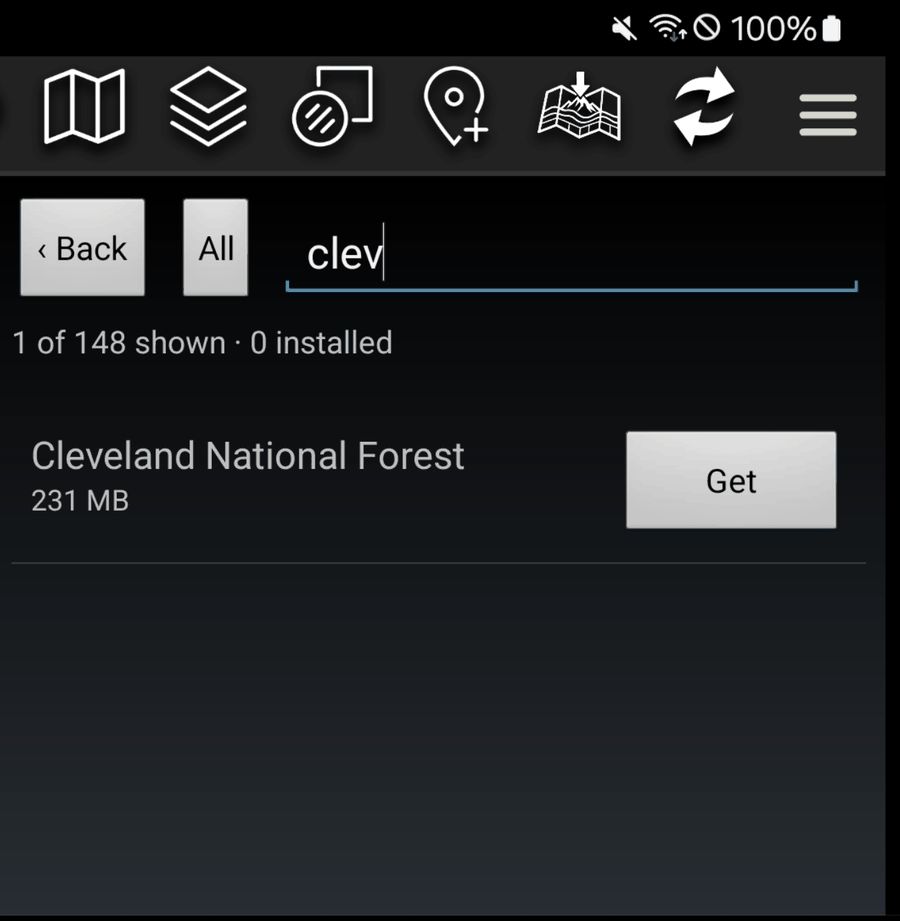
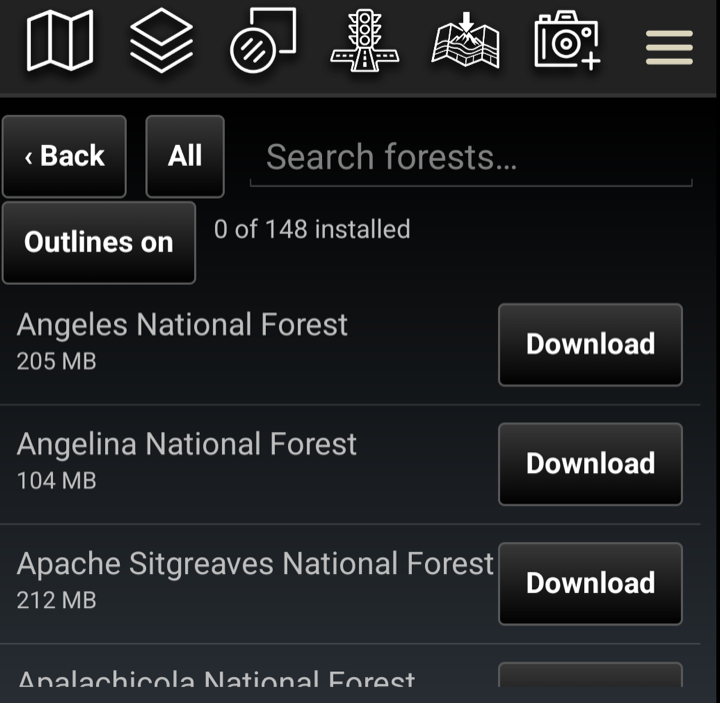
Map Depot 1.1: the GitHub guide covers incident maps
The public guide still described a four-page plugin at 0.6. It now
matches what 1.1 does.

New section 7 on the two incident archives: picking a geographic area,
dates newest first, what the renaming does and why the date in a name is
the operational period, MAP against OVERLAY, what is left out and the
line that says how many, pinning, and outlines.

The rest follows from that. Six kinds of data on the landing page rather
than four; Get is Download; the filter section gains Available, the
hidden-by-filter message and Show/Hide; the folder table gains grg and
overlays for incident products; Remove on a pin unpins and deletes
nothing.

Sixteen screenshots retaken from the 1.1 frames, ten added for the new
material. The README moves to 1.1 with its download block, the two new
hosts under PORTS REQUIRED, and pinning in the capability list. Its
skeleton still diffs clean against the PLSS reference.

diff --git a/docs/USER_GUIDE.md b/docs/USER_GUIDE.md
@@ -1,12 +1,12 @@
 # Map Depot for ATAK — User Guide
 
-**Version 0.6 · takwerx**
+**Version 1.1 · takwerx**
 
-**Download Map Depot 0.6** (pick the one matching your ATAK-CIV version, sideload, then load it in ATAK's Plugins manager):
+**Download Map Depot 1.1** (pick the one matching your ATAK-CIV version, sideload, then load it in ATAK's Plugins manager):
 
-- **ATAK-CIV 5.6:** https://github.com/takwerx/map-depot/releases/download/v0.6/ATAK-Plugin-MapDepot-0.6--5.6.0-civ-release.apk
-- **ATAK-CIV 5.7:** https://github.com/takwerx/map-depot/releases/download/v0.6/ATAK-Plugin-MapDepot-0.6--5.7.0-civ-release.apk
-- **ATAK-CIV 5.8:** https://github.com/takwerx/map-depot/releases/download/v0.6/ATAK-Plugin-MapDepot-0.6--5.8.0-civ-release.apk
+- **ATAK-CIV 5.6:** https://github.com/takwerx/map-depot/releases/download/v1.1/ATAK-Plugin-MapDepot-1.1--5.6.0-civ-release.apk
+- **ATAK-CIV 5.7:** https://github.com/takwerx/map-depot/releases/download/v1.1/ATAK-Plugin-MapDepot-1.1--5.7.0-civ-release.apk
+- **ATAK-CIV 5.8:** https://github.com/takwerx/map-depot/releases/download/v1.1/ATAK-Plugin-MapDepot-1.1--5.8.0-civ-release.apk
 
 All releases: https://github.com/takwerx/map-depot/releases
 
@@ -42,7 +42,7 @@ Load the plugin from ATAK's Plugins manager, then open it from the toolbar.
 
 ![Map Depot in the ATAK toolbar](screenshots/1_plugin_in_toolbar.png)
 
-The landing page offers four kinds of data, each on its own page.
+The landing page offers six kinds of data, each on its own page.
 
 ![The Map Depot landing page](screenshots/2_landing_page.png)
 
@@ -53,18 +53,22 @@ The landing page offers four kinds of data, each on its own page.
 - **Offline Public Lands** — Forest Service vector basemaps, one per national
   forest or grassland, held on the device.
 - **Offline Ranger District Maps** — the printed district maps, as GeoPDFs.
+- **Incident Maps (NIFC)** — the operational maps posted for a going fire: ops,
+  division, air operations, transport, briefing and IR.
+- **Drone IR Maps (UASWFC)** — infrared flown by uncrewed aircraft, as
+  georeferenced PDFs and KMZs.
 
 ---
 
 ## 2. How every page works
 
-A list of what is available, a **Get** button on each row, and a line at the top
-saying what is happening. Rows report one of three states, so the list doubles as
-an inventory of what the device already holds.
+A list of what is available, a **Download** button on each row, and a line at the
+top saying what is happening. Rows report one of three states, so the list
+doubles as an inventory of what the device already holds.
 
-![Rows showing Remove, Get and Finish](screenshots/3_elevation_row_states.png)
+![Rows showing Remove, Download and Finish](screenshots/3_elevation_row_states.png)
 
-- **Get** — none of it is on the device.
+- **Download** — none of it is on the device.
 - **Finish** — some of it is. Only the missing part downloads.
 - **Remove** — all of it is here.
 
@@ -169,11 +173,100 @@ it belongs to.
 Installed, a district map lands as a georeferenced overlay, in the right place on
 the ground, over whatever base map is showing.
 
-![A district map drawn over imagery](screenshots/16_district_map_on_map.png)
+![A district map drawn over imagery](screenshots/16_district_map_on_map.jpg)
 
 ---
 
-## 7. Finding what you already have
+## 7. Incident maps
+
+Two archives the incident community publishes to. Where every other page is a
+catalog that changes with a release, these change hourly: what is on the page is
+what the fire's GIS shop uploaded this morning.
+
+- **Incident Maps (NIFC)** — `ftp.wildfire.gov`. Ops, division, air operations,
+  transport, briefing and IR products, for fires across the country.
+- **Drone IR Maps (UASWFC)** — `uaswfc.org`. Infrared flown by uncrewed
+  aircraft.
+
+Both are public and need no account.
+
+### Picking your area
+
+Pick your geographic area once and it is remembered. It is a button, not a buried
+setting, so you can change it when the next fire is somewhere else.
+
+![Picking a geographic area](screenshots/20_incident_region_picker.png)
+
+From there you walk down to your fire and into whatever folder that shop uses.
+They do not all agree — one fire has `DAILY MAP PRODUCT`, `GIS` and `IR`, another
+has `Current`, `Products` and `QR` — so the plugin shows what is actually there
+rather than a fixed set of screens.
+
+Folders named by date are listed **newest first**, because the map you want is
+almost always today's.
+
+![Date folders, newest first](screenshots/21_incident_dates_newest_first.png)
+
+### Names you can read
+
+The archives name files for a GIS shop's file browser. Map Depot renames them for
+a phone:
+
+```
+ops_arch_e_port_20260828_0115_RoweCreekComplex_ORPRD000491_0828day.pdf
+  →  OR-PRD-ROWE-CREEK-COMPLEX-MAP-OPS-082826.pdf
+```
+
+![A file list](screenshots/22_incident_file_list.png)
+
+The date is the **operational period** — the shift the map is for, not the moment
+it came off the plotter. Division letters, sortie numbers and IR areas are all
+kept, because two maps you can both pick have to be able to sit on the device
+together. The original name is shown underneath, so a map named over the radio
+can still be found.
+
+A PDF says **MAP** and installs as a georeferenced overlay. A KMZ says
+**OVERLAY** and installs as ATAK's own kind of overlay. The name tells you which
+you are about to get.
+
+![A KMZ and a PDF in the same folder](screenshots/25_overlay_and_map.png)
+
+Only maps are offered: PDFs and KMZs. Geodatabases, shapefile bundles and flight
+logs are left out — a flight log is a PDF, but it is a sortie's paperwork rather
+than a map, and one filed as a GRG would drape a flat page over your map. The
+line under the buttons says how many were hidden, so a short list is never
+mistaken for an empty folder.
+
+### Pinning the fire you are working
+
+A crew assigned to a fire opens the same folder twenty times a day, and reaching
+it means a region, a year folder, the fire and then a product folder.
+
+Every folder has a **Pin** button.
+
+![Pinning a fire](screenshots/23_pin_a_fire.png)
+
+It then sits at the top of the first screen, in cyan, one tap away. **Remove** on
+a pinned row unpins it and deletes nothing.
+
+![A pinned fire at the top](screenshots/24_pinned_at_top.png)
+
+Anything can be pinned, not only a fire: if you live in one product folder, pin
+that and you land straight in it. Pins survive a restart and a plugin update, and
+the two archives keep their own.
+
+### On the map
+
+![A drone IR product on the ground](screenshots/27_drone_ir_on_map.jpg)
+
+**Outlines** turns the footprints of every GRG on or off, which is how you see
+what covers the ground in front of you before deciding what to turn on.
+
+![Outlines on](screenshots/26_outlines_on.jpg)
+
+---
+
+## 8. Finding what you already have
 
 Every page has a filter button, next to **Back**, that cycles **All** →
 **Installed** → **Available**. Set to **Installed**, the page becomes a list of
@@ -190,9 +283,27 @@ Straight after a download it may say it is still being added to the map list —
 ATAK is indexing the file, which takes a while for a large one. It goes there on
 its own when that finishes. Nothing needs tapping again.
 
+Set to **Available**, the page hides everything you already hold, which is the
+view you want when you are adding to a device rather than checking it.
+
+![The list filtered to available](screenshots/29_filter_available.png)
+
+When a filter is hiding everything, the page says so rather than reading as an
+empty folder — "3 maps here, hidden by the Installed filter" is a different
+problem from a folder with nothing in it.
+
+![A folder whose contents are hidden by the filter](screenshots/28_hidden_by_filter.png)
+
+### Show and Hide
+
+An installed overlay or GRG carries a **Show** or **Hide** button beside
+**Remove**. It does what the Overlay Manager's checkbox does, without leaving the
+plugin — useful when you hold a dozen maps of the same fire and want one of them
+on at a time.
+
 ---
 
-## 8. Removing
+## 9. Removing
 
 **Remove** appears on anything installed, and says what removing actually frees
 before it does it.
@@ -209,9 +320,12 @@ would have to go for the space to come back.
 
 ![A removal that would free nothing](screenshots/8_remove_frees_nothing.png)
 
+**Remove** on a pinned folder is a different thing: it unpins the folder and
+deletes nothing. A pin is a shortcut, not a download.
+
 ---
 
-## 9. Where files go
+## 10. Where files go
 
 Map Depot writes into ATAK's own folders, so what it installs is
 indistinguishable from data put there by hand.
@@ -222,6 +336,8 @@ indistinguishable from data put there by hand.
 | Streaming base maps | `atak/imagery/`, as map source files |
 | Offline public lands | `atak/imagery/`, as vector tile packages |
 | Ranger district maps | `atak/grg/`, as georeferenced PDFs |
+| Incident and drone maps (PDF) | `atak/grg/`, as georeferenced PDFs |
+| Incident and drone maps (KMZ) | `atak/overlays/`, as ATAK overlays |
 
 Installed maps appear in ATAK's own layer list alongside anything else you have.
 
@@ -232,7 +348,7 @@ so no layer is left pointing at something that is gone.
 
 ---
 
-## 10. In the plugin
+## 11. In the plugin
 
 The same guide ships inside the plugin as a PDF, for when you are in the field
 without this page. In ATAK go to **Settings → Tool Preferences → Map Depot →

diff --git a/README.md b/README.md
@@ -1,10 +1,10 @@
 ATAK Plugin — Map Depot
 
-**Download Map Depot 0.6** (pick the one matching your ATAK-CIV version, sideload, then load it in ATAK's Plugins manager):
+**Download Map Depot 1.1** (pick the one matching your ATAK-CIV version, sideload, then load it in ATAK's Plugins manager):
 
-- **ATAK-CIV 5.6:** https://github.com/takwerx/map-depot/releases/download/v0.6/ATAK-Plugin-MapDepot-0.6--5.6.0-civ-release.apk
-- **ATAK-CIV 5.7:** https://github.com/takwerx/map-depot/releases/download/v0.6/ATAK-Plugin-MapDepot-0.6--5.7.0-civ-release.apk
-- **ATAK-CIV 5.8:** https://github.com/takwerx/map-depot/releases/download/v0.6/ATAK-Plugin-MapDepot-0.6--5.8.0-civ-release.apk
+- **ATAK-CIV 5.6:** https://github.com/takwerx/map-depot/releases/download/v1.1/ATAK-Plugin-MapDepot-1.1--5.6.0-civ-release.apk
+- **ATAK-CIV 5.7:** https://github.com/takwerx/map-depot/releases/download/v1.1/ATAK-Plugin-MapDepot-1.1--5.7.0-civ-release.apk
+- **ATAK-CIV 5.8:** https://github.com/takwerx/map-depot/releases/download/v1.1/ATAK-Plugin-MapDepot-1.1--5.8.0-civ-release.apk
 
 All releases: https://github.com/takwerx/map-depot/releases
 
@@ -19,7 +19,7 @@ Map Depot downloads map data from inside ATAK. Without it, getting elevation or 
 map source onto a device means a web browser, the Downloads folder, and the Import
 Manager -- a sequence that is awkward on a phone and impossible with gloves on.
 
-Four kinds of data, each installed into the directory ATAK already scans, so
+Six kinds of data, each installed into the directory ATAK already scans, so
 nothing has to be imported by hand afterwards:
 
   * Elevation. DTED2 by state or province. Every cell is verified against a
@@ -38,13 +38,27 @@ nothing has to be imported by hand afterwards:
     visitor maps as georeferenced PDFs, which install as image overlays and draw
     over whatever base map is already in use.
 
+  * Incident maps. The operational products a going fire's GIS shop posts to the
+    NIFC archive -- ops, division, air operations, transport, briefing and IR --
+    browsed by geographic area and fire. Filenames written for a desktop file
+    browser are renamed for a phone screen, keyed to the operational period
+    rather than the plot time, with the original shown underneath.
+
+  * Drone IR maps. The same, for infrared flown by uncrewed aircraft and posted
+    to the UAS Wildland Fire Consortium. Flight logs and geodatabases are left
+    out; only georeferenced maps and KMZ overlays are offered.
+
+Any folder in either archive can be pinned to the top of the list, so a crew
+assigned to a fire reaches it in one tap rather than four.
+
 The catalog is fetched at runtime and cached, so a device that has been to the
-depot once still shows what it holds when there is no signal.
+depot once still shows what it holds when there is no signal. The two incident
+archives are read live, since what they hold changes through the day.
 
 _________________________________________________________________
 STATUS
 
-Version 0.6. Verified on ATAK-CIV 5.8.0.3.
+Version 1.1. Verified on ATAK-CIV 5.8.0.3.
 
 _________________________________________________________________
 POINT OF CONTACTS
@@ -66,6 +80,10 @@ Hosts contacted:
   * www.arcgis.com and tiles.arcgis.com, for Forest Service basemap packages,
     which are fetched from their publisher rather than mirrored.
   * data.fs.usda.gov, for Forest Service ranger district and forest maps.
+  * ftp.wildfire.gov, for NIFC incident maps. Public, no account.
+  * uaswfc.org, for UAS Wildland Fire Consortium drone products. Public, no
+    account. Both are preferences rather than fixed addresses, and both are
+    rejected if not HTTPS.
 
 Installing a map source does not itself contact that source's server; ATAK does,
 when the operator turns the layer on. Which servers those are is visible in the
@@ -101,7 +119,7 @@ DEVELOPER NOTES
 Files are placed where ATAK's own classification puts them, since the directory
 decides what ATAK treats the file as: map source XML in imagery/mobile/mapsources,
 streaming configs and vector tile packages at the imagery root, georeferenced PDFs
-in grg. After a file lands, ATAK is told: imagery through a layer scan, GRGs
+in grg, KMZ in overlays. After a file lands, ATAK is told: imagery through a layer scan, GRGs
 through the import pipeline, because GRG discovery otherwise runs only at startup.
 
 Removal notifies ATAK before deleting the file. The reverse order leaves a tile
